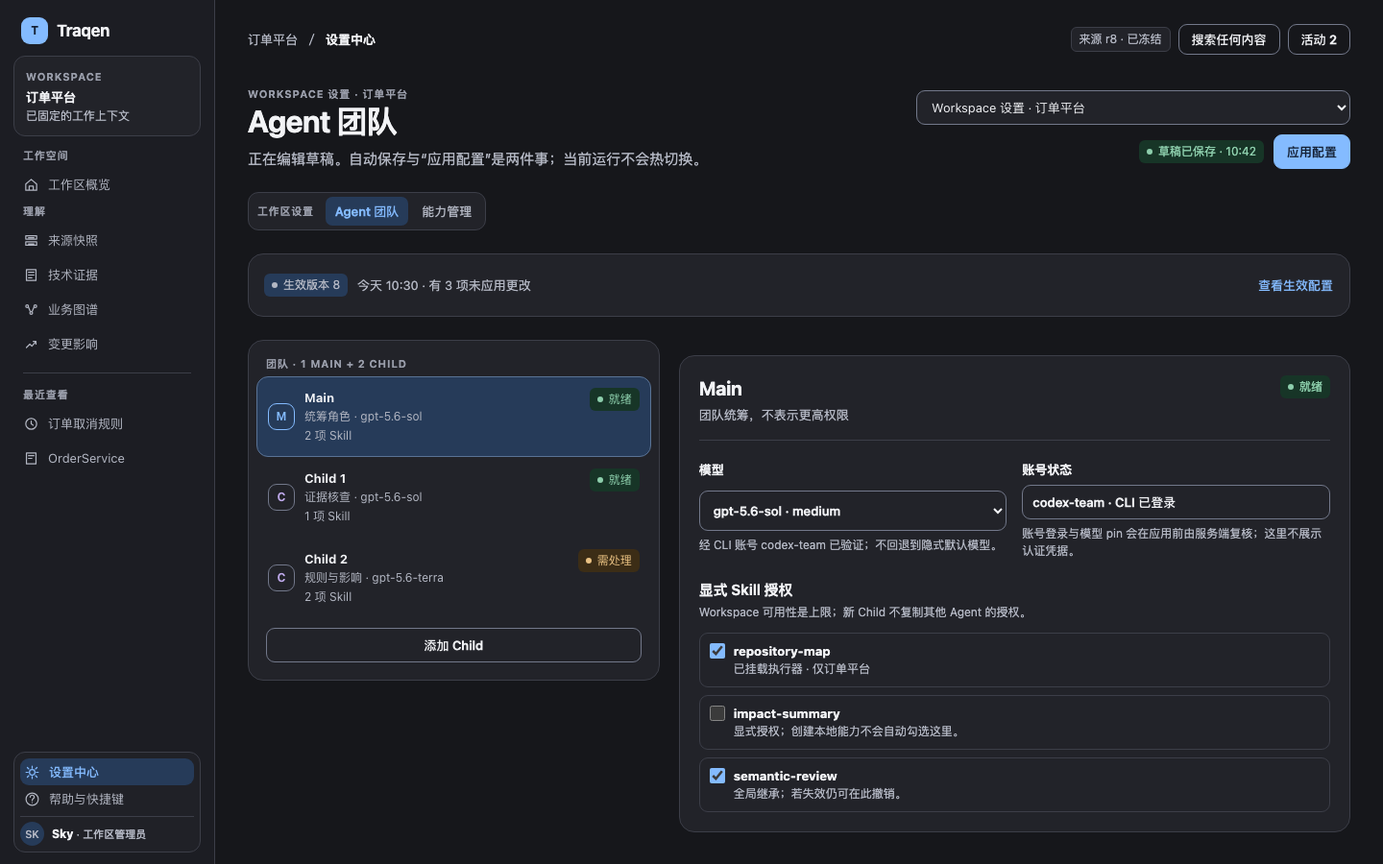
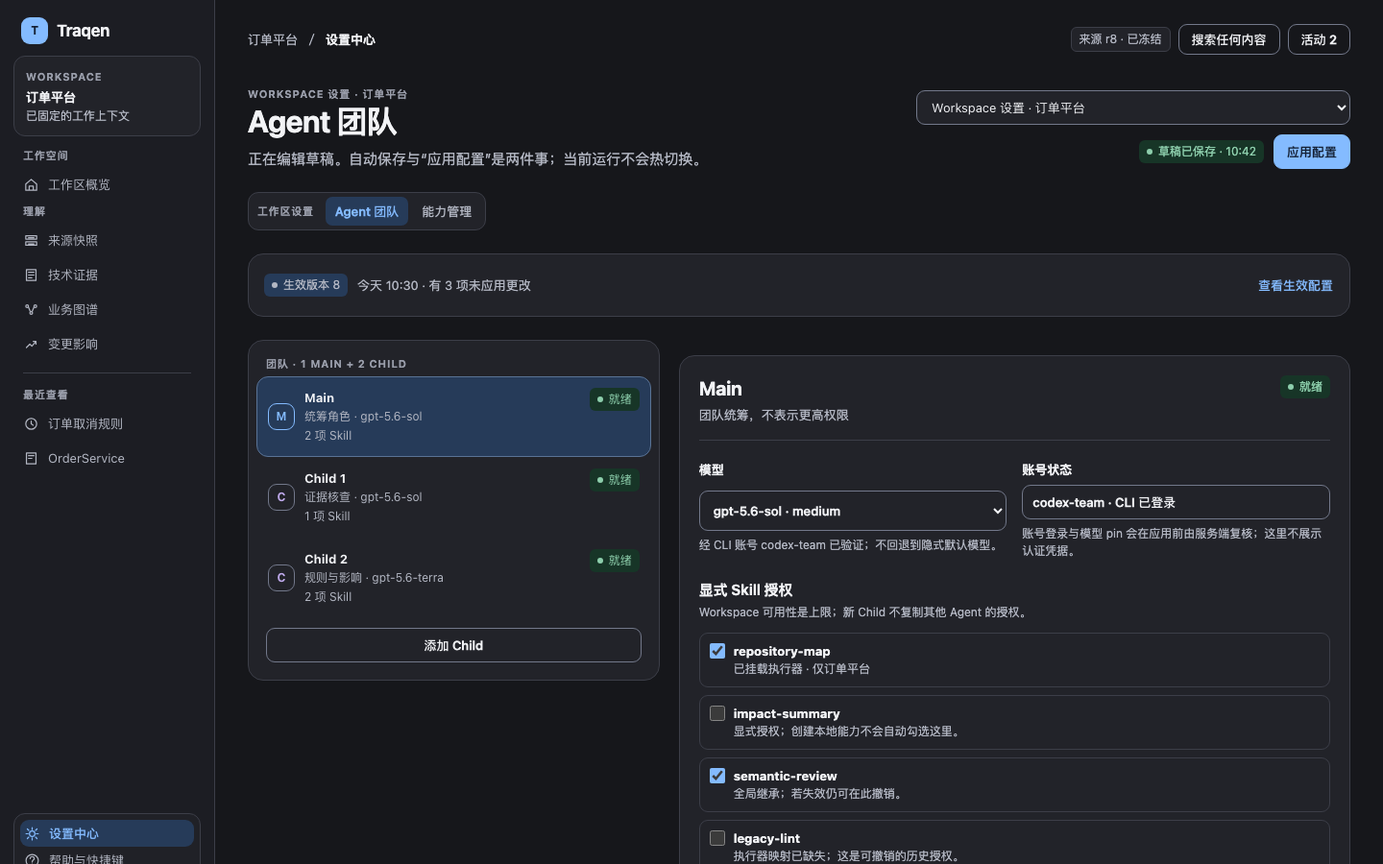
docs(f006): align desktop fixture flows with F005 shell
Why: make the pending review images prove real settings navigation, state boundaries, and recovery surfaces rather than fixture-only approximations.

[搬砖工/gpt-5.6-terra🐾]

Changed region(s): [[0.0, 0.8711, 0.1562, 1.0], [0.5, 0.9644, 0.6875, 1.0], [0.4062, 0.6222, 0.4688, 0.6844]]

diff --git a/docs/design/F006-workspace-capability-settings/ux-v1.0/assets/prototype.html b/docs/design/F006-workspace-capability-settings/ux-v1.0/assets/prototype.html
@@ -135,39 +135,42 @@
   <script>
     (() => {
       const scenes = {
-        empty: 'S01 · 范围与初始空态', accounts: 'S02 · 账号', models: 'S03 · 模型与 Skill', team: 'S04 · 完整团队', capabilities: 'S05 · 能力管理', conflict: 'S06 · 草稿冲突', lifecycle: 'S07 · 生命周期影响', mcp: 'S08 · MCP 暂停', versions: 'S09 · 生效版本', f003: 'S10 · F003 配置确认示意'
+        empty: 'S01 · 范围与初始空态', accounts: 'S02 · 账号', models: 'S03 · 模型', skills: 'S03 · Skill', team: 'S04 · 完整团队', capabilities: 'S05 · 能力管理', conflict: 'S06 · 草稿冲突', lifecycle: 'S07 · 生命周期影响', mcp: 'S08 · MCP 暂停', versions: 'S09 · 生效版本', f003: 'S10 · F003 配置确认示意'
       };
       const saved = JSON.parse(localStorage.getItem('traqen-f006-ux-state') || '{}');
-      const state = { scene: 'team', theme: localStorage.getItem('traqen-f006-ux-theme') || 'light', selected: saved.selected || 'main', child2Model: saved.child2Model || 'gpt-5.6-terra', conflict: Boolean(saved.conflict), m3: saved.m3 || '', logs: [], sentinels: { mainModel: 'gpt-5.6-sol', otherWorkspace: 'billing-workspace-unchanged' } };
+      const state = { scene: 'team', theme: localStorage.getItem('traqen-f006-ux-theme') || 'light', selected: saved.selected || 'main', child2Model: saved.child2Model || 'gpt-5.6-terra', conflict: Boolean(saved.conflict), legacyIssue: Boolean(saved.legacyIssue), m3: saved.m3 || '', logs: [], sentinels: { mainModel: 'gpt-5.6-sol', otherWorkspace: 'billing-workspace-unchanged' } };
       const agentConfigs = Object.freeze({
         main: { name: 'Main', role: '统筹角色', model: 'gpt-5.6-sol', skills: ['repository-map', 'semantic-review'], readiness: '就绪' },
         'child-1': { name: 'Child 1', role: '证据核查', model: 'gpt-5.6-sol', skills: ['repository-map'], readiness: '就绪' },
-        'child-2': { name: 'Child 2', role: '规则与影响', model: 'gpt-5.6-terra', skills: ['impact-summary', 'semantic-review'], readiness: '需处理' },
+        'child-2': { name: 'Child 2', role: '规则与影响', model: 'gpt-5.6-terra', skills: ['impact-summary', 'semantic-review'], readiness: '就绪' },
       });
       const $ = (selector, root=document) => root.querySelector(selector);
       const esc = value => String(value).replace(/[&<>"]/g, c => ({'&':'&amp;','<':'&lt;','>':'&gt;','"':'&quot;'}[c]));
-      function persist() { localStorage.setItem('traqen-f006-ux-state', JSON.stringify({ selected: state.selected, child2Model: state.child2Model, conflict: state.conflict, m3: state.m3 })); }
+      function persist() { localStorage.setItem('traqen-f006-ux-state', JSON.stringify({ selected: state.selected, child2Model: state.child2Model, conflict: state.conflict, legacyIssue: state.legacyIssue, m3: state.m3 })); }
       function log(type, detail, write=false) { state.logs.push({ type, detail, write }); updateLog(); }
       function updateLog() { const writes = state.logs.filter(x => x.write).length; $('#fixture-log').textContent = `模拟写入证据：${writes} 次业务写入 · ${state.logs.slice(-1)[0]?.detail || '取消/主题切换均为零业务写入'}`; }
       function applyTheme(theme) { state.theme = theme; localStorage.setItem('traqen-f006-ux-theme', theme); document.documentElement.dataset.theme = theme; document.querySelectorAll('[data-theme-choice]').forEach(button => button.setAttribute('aria-pressed', String(button.dataset.themeChoice === theme))); log('presentation', `切换至${theme === 'light' ? '瓷白' : '石墨'}主题`, false); }
       function head(kicker, title, description, action='') { return `<header class="page-head"><div><p class="eyebrow">${kicker}</p><h1>${title}</h1><p>${description}</p></div><div class="head-actions">${action}</div></header>`; }
       function pill(kind, text) { return `<span class="badge ${kind}">${text}</span>`; }
       function scope(value='workspace') { return `<select class="scope-select" data-testid="scope-switcher" aria-label="配置范围"><option ${value === 'global' ? 'selected':''}>全局设置</option><option ${value === 'workspace' ? 'selected':''}>Workspace 设置 · 订单平台</option></select>`; }
-      function agentConfig(id=state.selected) { const config = agentConfigs[id]; return { ...config, model: id === 'child-2' ? state.child2Model : config.model }; }
+      function agentConfig(id=state.selected) { const config = agentConfigs[id]; const legacy = id === 'child-1' && state.legacyIssue ? { skills: [...config.skills, 'legacy-lint'], readiness: '需处理' } : {}; return { ...config, ...legacy, model: id === 'child-2' ? state.child2Model : config.model }; }
+      function globalSettingsNav(active) { return `<nav class="settings-secondary" data-testid="global-settings-nav" aria-label="全局设置导航"><span>全局设置</span><button type="button" class="${active === 'accounts' ? 'active':''}" data-scene="accounts" ${active === 'accounts' ? 'aria-current="page"':''}>账号</button><button type="button" class="${active === 'models' ? 'active':''}" data-scene="models" ${active === 'models' ? 'aria-current="page"':''}>模型</button><button type="button" class="${active === 'skills' ? 'active':''}" data-scene="skills" ${active === 'skills' ? 'aria-current="page"':''}>Skill</button><button type="button" class="${active === 'mcp' ? 'active':''}" data-scene="mcp" ${active === 'mcp' ? 'aria-current="page"':''}>MCP · 已暂停</button></nav>`; }
       function workspaceSettingsNav(active) { return `<nav class="settings-secondary" data-testid="workspace-settings-nav" aria-label="Workspace 设置导航"><span>工作区设置</span><button type="button" class="${active === 'team' ? 'active':''}" data-scene="team" ${active === 'team' ? 'aria-current="page"':''}>Agent 团队</button><button type="button" class="${active === 'capabilities' ? 'active':''}" data-scene="capabilities" ${active === 'capabilities' ? 'aria-current="page"':''}>能力管理</button></nav>`; }
       function teamCards() { return `<section class="panel agent-list"><div class="agent-section-title">团队 · 1 Main + 2 Child</div>${Object.entries(agentConfigs).map(([id, base]) => { const agent = agentConfig(id); const kind = agent.readiness === '就绪' ? 'success' : 'warning'; return `<button class="agent-card ${state.selected === id ? 'selected':''}" data-agent="${id}" data-skill-count="${agent.skills.length}" ${id === 'child-2' ? 'data-testid="agent-child-2"':''}><span class="agent-icon">${id === 'main'?'M':'C'}</span><span><b>${agent.name}</b><small>${agent.role} · ${agent.model}</small><small>${agent.skills.length} 项 Skill</small></span>${pill(kind, agent.readiness)}</button>`; }).join('')}<button class="btn" style="margin:10px;width:calc(100% - 20px)">添加 Child</button></section>`; }
-      function inspector() { const agent = agentConfig(); const isChild2 = state.selected === 'child-2'; const skillDescription = { 'repository-map': ['已挂载执行器 · 仅订单平台', 'Workspace 可用性是上限，不会自动配给其他 Agent。'], 'impact-summary': ['显式授权；创建本地能力不会自动勾选这里。', '本地能力可用不等于任何 Agent 已获授权。'], 'semantic-review': ['全局继承；若失效仍可在此撤销。', '生命周期变更会在这里标记为需要处理。'] }; return `<section class="panel detail" aria-label="${agent.name} 配置详情"><div class="detail-head"><div><h2>${agent.name}</h2><p>${isChild2 ? '规则与影响的并行分析角色' : state.selected === 'main' ? '团队统筹，不表示更高权限' : '证据核查的并行分析角色'}</p></div>${pill(agent.readiness === '就绪' ? 'success':'warning', agent.readiness)}</div><div class="fields"><label>模型 <select id="agent-model" data-testid="agent-model"><option ${agent.model === 'gpt-5.6-sol'?'selected':''}>gpt-5.6-sol · medium</option><option ${agent.model === 'gpt-5.6-terra'?'selected':''}>gpt-5.6-terra · high</option></select><span>经 CLI 账号 codex-team 已验证；不回退到隐式默认模型。</span></label><label>账号状态 <input value="codex-team · CLI 已登录" readonly><span>账号登录与模型 pin 会在应用前由服务端复核；这里不展示认证凭据。</span></label></div><div class="grant-block"><h3>显式 Skill 授权</h3><p>Workspace 可用性是上限；新 Child 不复制其他 Agent 的授权。</p><div class="grant-list">${['repository-map','impact-summary','semantic-review'].map(skill => `<label class="check-row"><input type="checkbox" ${agent.skills.includes(skill) ? 'checked':''}><span><b>${skill}</b><br>${skillDescription[skill][0]}</span></label>`).join('')}</div></div><div class="wide-only"><h3>草稿与生效对照</h3><div class="wide-only-grid"><div><b>版本 8</b><span>当前 Active</span></div><div><b>3 项更改</b><span>草稿已保存</span></div><div><b>RUN-049</b><span>仍固定版本 7</span></div></div></div></section>`; }
+      function inspector() { const agent = agentConfig(); const isChild2 = state.selected === 'child-2'; const hasLegacyIssue = state.selected === 'child-1' && state.legacyIssue; const skillDescription = { 'repository-map': ['已挂载执行器 · 仅订单平台', 'Workspace 可用性是上限，不会自动配给其他 Agent。'], 'impact-summary': ['显式授权；创建本地能力不会自动勾选这里。', '本地能力可用不等于任何 Agent 已获授权。'], 'semantic-review': ['全局继承；若失效仍可在此撤销。', '生命周期变更会在这里标记为需要处理。'], 'legacy-lint': ['执行器映射已缺失；这是可撤销的历史授权。', '撤销只会修改 Child 1 的草稿授权。'] }; return `<section class="panel detail" aria-label="${agent.name} 配置详情"><div class="detail-head"><div><h2>${agent.name}</h2><p>${isChild2 ? '规则与影响的并行分析角色' : state.selected === 'main' ? '团队统筹，不表示更高权限' : '证据核查的并行分析角色'}</p></div>${pill(agent.readiness === '就绪' ? 'success':'warning', agent.readiness)}</div>${hasLegacyIssue ? `<div class="notice danger" data-testid="legacy-authorization" style="margin-top:16px"><span class="dot"></span><div><strong>legacy-lint 授权需要处理</strong><br>该执行器映射已不可用；历史授权仍在 Child 1 草稿中，必须在此明确撤销或替换。</div><button class="btn danger" id="revoke-legacy" style="margin-left:auto">撤销授权</button></div>` : ''}<div class="fields"><label>模型 <select id="agent-model" data-testid="agent-model"><option ${agent.model === 'gpt-5.6-sol'?'selected':''}>gpt-5.6-sol · medium</option><option ${agent.model === 'gpt-5.6-terra'?'selected':''}>gpt-5.6-terra · high</option></select><span>经 CLI 账号 codex-team 已验证；不回退到隐式默认模型。</span></label><label>账号状态 <input value="codex-team · CLI 已登录" readonly><span>账号登录与模型 pin 会在应用前由服务端复核；这里不展示认证凭据。</span></label></div><div class="grant-block"><h3>显式 Skill 授权</h3><p>Workspace 可用性是上限；新 Child 不复制其他 Agent 的授权。</p><div class="grant-list">${['repository-map','impact-summary','semantic-review','legacy-lint'].map(skill => `<label class="check-row"><input type="checkbox" ${agent.skills.includes(skill) ? 'checked':''}><span><b>${skill}</b><br>${skillDescription[skill][0]}</span></label>`).join('')}</div></div><div class="wide-only"><h3>草稿与生效对照</h3><div class="wide-only-grid"><div><b>版本 8</b><span>当前 Active</span></div><div><b>3 项更改</b><span>草稿已保存</span></div><div><b>RUN-049</b><span>仍固定版本 7</span></div></div></div></section>`; }
       function team() { return `${head('Workspace 设置 · 订单平台', 'Agent 团队', '正在编辑草稿。自动保存与“应用配置”是两件事；当前运行不会热切换。', `${scope()}${pill('success','草稿已保存 · 10:42').replace('class="badge success"', 'class="badge success" data-testid="draft-saved"')}<button class="btn primary" id="apply" data-testid="apply-config">应用配置</button>`)}${workspaceSettingsNav('team')}<div class="summary-row"><div class="summary-copy">${pill('blue','生效版本 8')}<span>今天 10:30 · 有 3 项未应用更改</span></div><button class="btn link">查看生效配置</button></div><section class="content team-grid">${teamCards()}${inspector()}</section>`; }
-      function empty() { return `${head('设置中心', '先准备可信的配置资产', '全局资产、Workspace 可用范围和 Agent 授权分别决定不同的事情。', scope())}<section class="content panel pad"><div class="section-head"><div><h2>订单平台尚未配置团队</h2><p class="subtle">最低结构是一个 Main 与一个 Child；不会静默填入默认模型。</p></div>${pill('warning','需要准备模型')}</div><div class="quad"><div class="panel pad"><h3>1 · 添加账号</h3><p class="subtle" style="margin-top:5px">保存安全引用或检查 CLI 登录状态。</p><button class="btn link" style="margin-top:14px">前往账号</button></div><div class="panel pad"><h3>2 · 创建 CLI 模型</h3><p class="subtle" style="margin-top:5px">模型验证成功也不自动配给 Agent。</p><button class="btn link" style="margin-top:14px">前往模型</button></div><div class="panel pad"><h3>3 · 配置 Main</h3><p class="subtle" style="margin-top:5px">显示实际模型与账号状态。</p><button class="btn link" style="margin-top:14px">选择模型</button></div><div class="panel pad"><h3>4 · 配置 Child</h3><p class="subtle" style="margin-top:5px">至少一个 Child，授权不从 Main 复制。</p><button class="btn link" style="margin-top:14px">添加 Child</button></div></div><div class="notice" style="margin-top:16px"><span class="dot"></span><div><strong>不能应用配置</strong><br>先完成 Main 与 Child 的模型配置。草稿仍可保存，运行不会因此创建。</div></div></section>`; }
-      function accounts() { return `${head('全局设置', '账号', '保存的是认证引用与 CLI 状态摘要；不显示密钥，也不在 Traqen 内发起 OAuth 登录。', scope('global'))}<section class="content form-grid"><div class="panel pad"><div class="section-head"><h2>添加 API Key 引用</h2>${pill('blue','全局资产')}</div><div class="form-stack"><label>账号名称 <input value="OpenAI 团队账号"></label><label>Secret 引用 <input value="env://OPENAI_API_KEY" aria-invalid="true"><span class="error-text">未发现该环境变量；引用已保留，未显示密钥值。</span></label><p class="field-help">仅支持 <code>env://VARIABLE_NAME</code>；保存引用与连接检查分开。</p><button class="btn primary">保存引用</button></div></div><div class="panel pad"><div class="section-head"><h2>OAuth 状态</h2>${pill('warning','需要处理')}</div><div class="timeline"><div class="event"><i></i><div><b>Claude CLI</b><p>等待 CLI 登录。请在受支持的 CLI 完成登录后回到这里检查。</p></div></div><div class="event"><i></i><div><b>Codex CLI</b><p>检查失败 · 找不到本地 CLI。重试不会改变认证状态。</p></div></div></div><button class="btn" style="margin-top:16px">重新检查</button></div></section>`; }
-      function models() { return `${head('全局设置', 'CLI 模型与 Skill', '只允许受支持的 CLI 执行；账号、模型 pin 和就绪性不足时不能进入 Agent 选择器。', scope('global'))}<section class="content form-grid"><div class="panel pad"><div class="section-head"><h2>模型目录</h2><button class="btn">添加模型</button></div><table class="table"><thead><tr><th>名称</th><th>CLI / 模型</th><th>状态</th></tr></thead><tbody><tr><td><b>订单分析</b><small>codex-team</small></td><td>Codex · gpt-5.6-sol<br><small>medium</small></td><td>${pill('success','READY')}</td></tr><tr><td><b>规则核查</b><small>claude-team</small></td><td>Claude · 未固定模型<br><small>模型 pin 缺失</small></td><td>${pill('warning','需要处理')}</td></tr></tbody></table><div class="notice danger" style="margin-top:15px"><span class="dot"></span><div><strong>验证失败</strong><br>“规则核查”保留在目录中，不会悄悄清空或替换当前选择。</div></div></div><div class="panel pad"><div class="section-head"><h2>Skill 执行器</h2>${pill('purple','服务端映射')}</div><p class="subtle">新增 Skill 只能选择实际挂载的执行器；手填“已验证”不会产生授权。</p><div class="grant-list"><label>能力名称 <input value="semantic-review"></label><label>已挂载执行器 <select><option>semantic-reviewer · v3.2</option></select><span>映射与验证结果由服务端生成。</span></label><label class="check-row"><input type="checkbox"><span><b>我已核对执行器</b><br>只是创建前确认；不替代服务器验证。</span></label></div><button class="btn primary" style="margin-top:16px">添加 Skill</button></div></section>`; }
-      function capabilities() { const card = (title,count,body) => `<section class="panel group-card"><h3>${title}<span>${count}</span></h3>${body}</section>`; return `${head('Workspace 设置 · 订单平台', '能力管理', '四组可用范围与每个 Agent 的显式授权分开管理。', `${scope()}<button class="btn primary">应用配置</button>`)}${workspaceSettingsNav('capabilities')}<section class="content"><div class="quad">${card('继承且可用','2',`<div class="cap-row"><b>repository-map</b><p>全局启用 · Workspace 未禁用</p><button class="btn link inline">在此 Workspace 禁用</button></div><div class="cap-row"><b>semantic-review</b><p>全局启用 · 已授权给 Child 2</p></div>`)}${card('本 Workspace 已禁用','1',`<div class="cap-row"><b>release-notes</b><p>恢复只改变可用范围，不自动恢复 Agent 授权。</p><button class="btn link inline">恢复继承</button></div>`)}${card('全局不可用','1',`<div class="cap-row"><b>legacy-lint</b><p>执行器映射缺失 · 当前 Child 1 仍保留可撤销的历史授权。</p><button class="btn link inline">前往 Child 1 撤销授权</button></div>`)}${card('Workspace 本地','1',`<div class="cap-row"><b>order-language</b><p>仅订单平台 · 已挂载执行器</p><button class="btn link inline">编辑本地 Skill</button></div><button class="btn" style="margin-top:14px">添加本地 Skill</button>`)}</div></section>`; }
-      function conflict() { const events = state.logs.filter(x => x.type === 'draft-save' || x.type === 'activation').map(x => `<div class="event"><i></i><div><b>${x.type === 'activation' ? 'Apply 请求' : '草稿写入'} · ${esc(x.detail)}</b><p>${x.write ? '模拟业务写入' : '展示事件'}</p></div></div>`).join(''); return `${head('Workspace 设置 · 订单平台', '草稿冲突恢复', '409 发生后，保留本地编辑，冻结失败快照；不会后台循环写入。', `${scope()}<button class="btn primary" disabled data-testid="conflict-apply">应用配置</button>`)}<section class="content form-grid"><div><div class="panel pad"><div class="notice danger"><span class="dot"></span><div><strong>草稿已在其他位置更新</strong><br>M2 保存收到 409。M3 继续编辑会被保留，但不会在冲突期间再发起 PUT。</div></div><div class="form-stack" style="margin-top:16px"><label>M2：失败时冻结的模型 <select id="m2-model"><option>gpt-5.6-terra · high</option></select></label><label>M3：更晚的说明 <input id="m3-note" value="${esc(state.m3)}" placeholder="继续编辑 M3，不会立即写入"></label><div><button class="btn primary" id="conflict-retry" data-testid="conflict-retry">重试我的草稿</button><button class="btn" id="conflict-server" style="margin-left:8px">采用服务器草稿</button></div></div></div><div class="panel pad"><h2>恢复顺序</h2><div class="timeline"><div class="event"><i></i><div><b>1 · 冻结 M2</b><p>只确认实际要重新保存的 M2，不把尚未发送的 M3 标作已保存。</p></div></div><div class="event"><i></i><div><b>2 · 确认 M2</b><p>恢复成功后，M3 仍为待保存编辑。</p></div></div><div class="event"><i></i><div><b>3 · 恰好补存一次 M3</b><p>写入日志可核对，无循环重试。</p></div></div></div></div></div><div class="panel pad" style="margin-top:16px"><div class="section-head"><h2>模拟事件日志</h2>${pill('warning','冲突中')}</div><div class="timeline" id="event-log">${events || '<p class="subtle">点击“重试我的草稿”演示 M2 → M3 的有界恢复。</p>'}</div></div></section>`; }
+      function empty() { const placeholder = (id, name, role, detail) => `<button class="agent-card ${id === 'main' ? 'selected':''}" data-testid="empty-${id}"><span class="agent-icon">${id === 'main'?'M':'C'}</span><span><b>${name}</b><small>${role}</small><small>尚未选择模型 · 0 项 Skill</small></span>${pill('warning','需要配置')}</button>`; return `${head('Workspace 设置 · 订单平台', 'Agent 团队', '先在实际团队配置中为 Main 与至少一个 Child 选择模型；不会静默填入默认值。', `${scope()}${pill('warning','不能应用配置')}`)}${workspaceSettingsNav('team')}<div class="summary-row"><div class="summary-copy">${pill('blue','草稿已保存')}<span>初始草稿 · 尚未创建可运行版本</span></div><button class="btn link" data-scene="models">前往模型</button></div><section class="content team-grid"><section class="panel agent-list"><div class="agent-section-title">团队 · 1 Main + 1 Child（最小结构）</div>${placeholder('main','Main','统筹角色','')} ${placeholder('child-1','Child 1','证据核查','')}<button class="btn" style="margin:10px;width:calc(100% - 20px)">添加 Child</button></section><section class="panel detail" aria-label="初始 Agent 配置"><div class="detail-head"><div><h2>Main 尚未完成配置</h2><p>从实际账号与模型中选择；Child 的授权不会由 Main 自动复制。</p></div>${pill('warning','需要模型')}</div><div class="fields"><label>模型 <select disabled><option>先在模型页添加并验证</option></select><span>未选择模型，不会回退到隐式默认值。</span></label><label>账号状态 <input value="尚未选择账号" readonly><span>保存引用与 CLI 检查分开。</span></label></div><div class="grant-block"><h3>显式 Skill 授权</h3><p>等待模型配置完成后再逐项选择；当前为 0 项。</p></div><div class="notice" style="margin-top:20px"><span class="dot"></span><div><strong>应用配置仍不可用</strong><br>先完成 Main 和至少一个 Child 的模型配置。草稿可以保存，但不会创建运行。</div></div></section></section>`; }
+      function accounts() { return `${head('全局设置', '账号', '保存的是认证引用与 CLI 状态摘要；不显示密钥，也不在 Traqen 内发起 OAuth 登录。', scope('global'))}${globalSettingsNav('accounts')}<section class="content form-grid"><div class="panel pad"><div class="section-head"><h2>添加 API Key 引用</h2>${pill('blue','全局资产')}</div><div class="form-stack"><label>账号名称 <input value="OpenAI 团队账号"></label><label>Secret 引用 <input value="env://OPENAI_API_KEY" aria-invalid="true"><span class="error-text">未发现该环境变量；引用已保留，未显示密钥值。</span></label><p class="field-help">仅支持 <code>env://VARIABLE_NAME</code>；保存引用与连接检查分开。</p><button class="btn primary">保存引用</button></div></div><div class="panel pad"><div class="section-head"><h2>OAuth 状态</h2>${pill('warning','需要处理')}</div><div class="timeline"><div class="event"><i></i><div><b>Claude CLI</b><p>等待 CLI 登录。请在受支持的 CLI 完成登录后回到这里检查。</p></div></div><div class="event"><i></i><div><b>Codex CLI</b><p>检查失败 · 找不到本地 CLI。重试不会改变认证状态。</p></div></div></div><button class="btn" style="margin-top:16px">重新检查</button></div></section>`; }
+      function models() { return `${head('全局设置', 'CLI 模型', '只允许受支持的 CLI 执行；账号、模型 pin 和就绪性不足时不能进入 Agent 选择器。', scope('global'))}${globalSettingsNav('models')}<section class="content panel pad"><div class="section-head"><h2>模型目录</h2><button class="btn">添加模型</button></div><table class="table"><thead><tr><th>名称</th><th>CLI / 模型</th><th>状态</th></tr></thead><tbody><tr><td><b>订单分析</b><small>codex-team</small></td><td>Codex · gpt-5.6-sol<br><small>medium</small></td><td>${pill('success','READY')}</td></tr><tr><td><b>规则核查</b><small>claude-team</small></td><td>Claude · 未固定模型<br><small>模型 pin 缺失</small></td><td>${pill('warning','需要处理')}</td></tr></tbody></table><div class="notice danger" style="margin-top:15px"><span class="dot"></span><div><strong>验证失败</strong><br>“规则核查”保留在目录中，不会悄悄清空或替换当前选择。</div></div></section>`; }
+      function skills() { return `${head('全局设置', 'Skill', 'Skill 是独立的全局资产；新增时只能选择实际挂载的执行器，不能直接形成 Agent 授权。', scope('global'))}${globalSettingsNav('skills')}<section class="content form-grid"><section class="panel pad"><div class="section-head"><h2>Skill 执行器</h2>${pill('purple','服务端映射')}</div><p class="subtle">能力名称、执行器映射和验证状态都在此管理；团队页只选择已可用的 Skill。</p><div class="grant-list"><label>能力名称 <input value="semantic-review"></label><label>已挂载执行器 <select><option>semantic-reviewer · v3.2</option></select><span>映射与验证结果由服务端生成。</span></label><label class="check-row"><input type="checkbox"><span><b>我已核对执行器</b><br>只是创建前确认；不替代服务器验证。</span></label></div><button class="btn primary" style="margin-top:16px">添加 Skill</button></section><section class="panel pad"><div class="section-head"><h2>已挂载 Skill</h2>${pill('success','2 可用')}</div><div class="timeline"><div class="event"><i></i><div><b>repository-map</b><p>映射有效 · 可在 Workspace 范围内授权。</p></div></div><div class="event"><i></i><div><b>semantic-review</b><p>semantic-reviewer v3.2 · 由团队显式授权。</p></div></div></div></section></section>`; }
+      function capabilities() { const card = (title,count,body) => `<section class="panel group-card"><h3>${title}<span>${count}</span></h3>${body}</section>`; return `${head('Workspace 设置 · 订单平台', '能力管理', '四组可用范围与每个 Agent 的显式授权分开管理。', `${scope()}<button class="btn primary">应用配置</button>`)}${workspaceSettingsNav('capabilities')}<section class="content"><div class="quad">${card('继承且可用','2',`<div class="cap-row"><b>repository-map</b><p>全局启用 · Workspace 未禁用</p><button class="btn link inline">在此 Workspace 禁用</button></div><div class="cap-row"><b>semantic-review</b><p>全局启用 · 已授权给 Child 2</p></div>`)}${card('本 Workspace 已禁用','1',`<div class="cap-row"><b>release-notes</b><p>恢复只改变可用范围，不自动恢复 Agent 授权。</p><button class="btn link inline">恢复继承</button></div>`)}${card('全局不可用','1',`<div class="cap-row"><b>legacy-lint</b><p>执行器映射缺失 · Child 1 的历史授权需要在团队详情中明确处理。</p><button class="btn link inline" data-action="open-legacy-issue">前往 Child 1 处理授权</button></div>`)}${card('Workspace 本地','1',`<div class="cap-row"><b>order-language</b><p>仅订单平台 · 已挂载执行器</p><button class="btn link inline">编辑本地 Skill</button></div><button class="btn" style="margin-top:14px">添加本地 Skill</button>`)}</div></section>`; }
+      function conflictInspector() { return `<section class="panel detail" aria-label="Child 2 草稿恢复"><div class="detail-head"><div><h2>Child 2</h2><p>规则与影响的并行分析角色</p></div>${pill('warning','草稿需要处理')}</div><div class="notice danger" style="margin-top:16px"><span class="dot"></span><div><strong>此草稿基于较早的保存状态</strong><br>已保留你的模型选择和说明。恢复前不会自动覆盖服务器上的更新，也不会把当前草稿应用到运行。</div></div><div class="fields"><label>模型 <select id="m2-model"><option>gpt-5.6-terra · high</option></select><span>保留你的未应用选择，等待恢复完成。</span></label><label>保留的说明 <input id="m3-note" value="${esc(state.m3)}" placeholder="继续编辑说明，不会立即保存"><span>这里的编辑仍留在本地，直到你确认恢复。</span></label></div><div class="grant-block"><h3>恢复草稿</h3><p>先确认冲突前的保存版本，再补存你随后增加的说明；系统不会循环重试。</p><div style="margin-top:12px"><button class="btn primary" id="conflict-retry" data-testid="conflict-retry">重新保存草稿</button><button class="btn" id="conflict-server" style="margin-left:8px">查看服务器草稿</button></div></div></section>`; }
+      function conflict() { return `${head('Workspace 设置 · 订单平台', 'Agent 团队', '一个已保存草稿需要恢复。保留你的更改并选择恢复方式；当前运行和生效配置不会热切换。', `${scope()}${pill('warning','草稿需要处理')}<button class="btn primary" disabled data-testid="conflict-apply">应用配置</button>`)}${workspaceSettingsNav('team')}<div class="summary-row"><div class="summary-copy">${pill('blue','生效版本 8')}<span>草稿待恢复后才能应用；当前 Active 与运行不变</span></div><button class="btn link" data-scene="versions">查看生效配置</button></div><section class="content team-grid">${teamCards()}${conflictInspector()}</section>`; }
       function lifecycle() { return `${head('全局设置', '能力生命周期', '停用或删除前先取得当前影响；取消不会写入，完成后历史版本不被篡改。', scope('global'))}<section class="content panel pad"><div class="section-head"><div><h2>semantic-review</h2><p class="subtle">Skill · 已挂载执行器 semantic-reviewer v3.2</p></div>${pill('success','ACTIVE')}</div><div class="versions"><div><div class="notice"><span class="dot"></span><div><strong>将影响 2 个 Workspace / 3 项授权</strong><br>服务端影响清单成功加载后才允许继续；名称确认是对当前对象的确认，不是通用确认。</div></div><table class="table" style="margin-top:16px"><thead><tr><th>Workspace</th><th>Agent</th><th>现状</th></tr></thead><tbody><tr><td>订单平台</td><td>Child 2</td><td>授权有效</td></tr><tr><td>客户运营</td><td>Main / Child 1</td><td>授权有效</td></tr></tbody></table></div><div class="panel pad"><h3>生命周期操作</h3><p class="subtle" style="margin-top:5px">停用后，受影响团队显示“需要处理”，仍可撤销失效授权。</p><button class="btn danger" id="open-lifecycle" style="margin-top:17px">停用能力</button><p class="field-help" style="margin-top:16px">焦点会在取消后回到这一行的原操作。</p></div></div></section>`; }
-      function mcp() { return `${head('全局设置', 'MCP', 'MCP 接入暂不推进。历史配置仅供查看，不代表当前可执行能力。', scope('global'))}<section class="content split"><nav class="panel local-nav" aria-label="全局设置导航"><button>账号</button><button>模型</button><button>Skill</button><button class="active">MCP · 已暂停</button></nav><div><section class="panel pad" data-testid="mcp-paused"><div class="section-head"><div><h2>MCP 已暂停</h2><p class="subtle">本期没有创建、导入、检测、连接、激活或新增授权入口。</p></div>${pill('warning','已暂停')}</div><div class="notice"><span class="dot"></span><div><strong>不显示 READY 或“已连接”</strong><br>受限与不支持不是加载中；不能让历史记录暗示当前可以执行。</div></div><table class="table" style="margin-top:18px"><thead><tr><th>历史引用</th><th>范围</th><th>状态</th><th></th></tr></thead><tbody><tr><td><b>search</b><small>MCP 历史身份保留</small></td><td>订单平台 · Child 1</td><td>${pill('warning','只读 / 暂停')}</td><td class="row-actions"><button class="btn">到团队移除授权</button></td></tr></tbody></table></section></div></section>`; }
-      function versions() { return `${head('Workspace 设置 · 订单平台', '当前生效配置', '草稿已保存不等于已应用；每次运行固定读取创建时的版本。', `${scope()}<button class="btn primary">应用配置</button>`)}<section class="content versions"><section class="panel pad"><div class="section-head"><div><span class="eyebrow">当前生效</span><div class="version-number">版本 8</div><p class="subtle">今天 10:30 · cfg_01HX…9M</p></div>${pill('success','已生效')}</div><div class="key-value"><span>Main</span><b>gpt-5.6-sol · 2 项 Skill</b></div><div class="key-value"><span>Child 1</span><b>gpt-5.6-sol · 1 项 Skill</b></div><div class="key-value"><span>Child 2</span><b>gpt-5.6-terra · 2 项 Skill</b></div><div class="notice" style="margin-top:16px"><span class="dot"></span><div><strong>仅影响之后的新分析</strong><br>运行 RUN-049 继续固定使用版本 7；刷新和恢复不会换成当前 Active。</div></div></section><aside class="panel pad"><h2>草稿</h2><p class="subtle" style="margin-top:5px">已保存 · 3 项待应用更改</p><div class="timeline"><div class="event"><i></i><div><b>Child 2 模型</b><p>gpt-5.6-sol → gpt-5.6-terra</p></div></div><div class="event"><i></i><div><b>Skill 授权</b><p>新增 impact-summary</p></div></div></div><button class="btn primary" style="margin-top:16px">应用配置</button></aside></section>`; }
+      function mcp() { return `${head('全局设置', 'MCP', 'MCP 接入暂不推进。历史配置仅供查看，不代表当前可执行能力。', scope('global'))}${globalSettingsNav('mcp')}<section class="content panel pad" data-testid="mcp-paused"><div class="section-head"><div><h2>MCP 已暂停</h2><p class="subtle">本期没有创建、导入、检测、连接、激活或新增授权入口。</p></div>${pill('warning','已暂停')}</div><div class="notice"><span class="dot"></span><div><strong>不显示 READY 或“已连接”</strong><br>受限与不支持不是加载中；不能让历史记录暗示当前可以执行。</div></div><table class="table" style="margin-top:18px"><thead><tr><th>历史引用</th><th>范围</th><th>状态</th><th></th></tr></thead><tbody><tr><td><b>search</b><small>MCP 历史身份保留</small></td><td>订单平台 · Child 1</td><td>${pill('warning','只读 / 暂停')}</td><td class="row-actions"><button class="btn" data-scene="team">到团队移除授权</button></td></tr></tbody></table></section>`; }
+      function versions() { return `${head('Workspace 设置 · 订单平台', '当前生效配置', '草稿已保存不等于已应用；每次运行固定读取创建时的版本。', `${scope()}<button class="btn link" data-scene="team">返回团队编辑</button>`)}${workspaceSettingsNav('team')}<section class="content versions"><section class="panel pad"><div class="section-head"><div><span class="eyebrow">当前生效</span><div class="version-number">版本 8</div><p class="subtle">今天 10:30 · cfg_01HX…9M</p></div>${pill('success','已生效')}</div><div class="key-value"><span>Main</span><b>gpt-5.6-sol · 2 项 Skill</b></div><div class="key-value"><span>Child 1</span><b>gpt-5.6-sol · 1 项 Skill</b></div><div class="key-value"><span>Child 2</span><b>gpt-5.6-sol · 1 项 Skill</b></div><div class="notice" style="margin-top:16px"><span class="dot"></span><div><strong>仅影响之后的新分析</strong><br>运行 RUN-049 继续固定使用版本 7；刷新和恢复不会换成当前 Active。</div></div></section><aside class="panel pad"><h2>草稿</h2><p class="subtle" style="margin-top:5px">已保存 · 3 项待应用更改</p><div class="timeline"><div class="event"><i></i><div><b>Child 2 模型</b><p>gpt-5.6-sol → gpt-5.6-terra</p></div></div><div class="event"><i></i><div><b>Skill 授权</b><p>新增 impact-summary；草稿合计 2 项 Skill</p></div></div></div><p class="field-help" style="margin-top:16px">这是只读版本对照。若要应用草稿，请返回团队编辑页。</p><button class="btn primary" data-scene="team" style="margin-top:12px">返回团队编辑</button></aside></section>`; }
       function f003() { return `${head('F003 · 分析准备', '确认将使用的 F006 生效配置', '这是跨 Feature 交互示意：真实材料绑定、启动 API 与持久确认机制尚未接线。', '<button class="btn primary" id="f003-confirm">确认配置并继续</button>')}<section class="content f003-grid"><section class="panel pad"><div class="section-head"><div><h2>订单取消规则的调查准备</h2><p class="subtle">首次使用或配置版本变化时，要求人工确认。</p></div>${pill('blue','版本 8')}</div><div class="checklist"><div><i>✓</i><span><b>Main · gpt-5.6-sol</b><br><span class="subtle">已固定给本次准备摘要；不是实时目录。</span></span></div><div><i>✓</i><span><b>Child 1 / Child 2</b><br><span class="subtle">模型与能力数量可见，敏感认证内容不展开。</span></span></div><div><i>✓</i><span><b>账号就绪性</b><br><span class="subtle">服务端应在真实启动前再次校验，原型不声称检查通过。</span></span></div></div></section><aside class="panel pad" data-testid="f003-fixture-only"><span class="badge warning">明确限制</span><h2 style="margin-top:12px">不是 AC-C2 完成声明</h2><p class="subtle" style="margin-top:7px">这个示意不会读取新材料、不会复活 F001 的旧入口、不会创建 Run，也不能证明 F003 接线已完成。</p><button class="btn" id="simulate-head-conflict" style="margin-top:16px">示意：配置 Head 已变化</button></aside></section>`; }
-      function content() { return ({empty, accounts, models, team, capabilities, conflict, lifecycle, mcp, versions, f003}[state.scene] || team)(); }
+      function content() { return ({empty, accounts, models, skills, team, capabilities, conflict, lifecycle, mcp, versions, f003}[state.scene] || team)(); }
       function bind() {
         document.querySelectorAll('[data-agent]').forEach(button => button.addEventListener('click', () => { state.selected = button.dataset.agent; persist(); render(); }));
         document.querySelectorAll('[data-scene]').forEach(button => button.addEventListener('click', () => navigate(button.dataset.scene)));
@@ -175,6 +178,8 @@
         $('#m3-note')?.addEventListener('input', event => { state.m3 = event.target.value; persist(); log('local-edit', 'M3 在 409 横幅期间保留为本地编辑，零额外写入', false); });
         $('#conflict-retry')?.addEventListener('click', () => { log('draft-save', 'M2 冻结快照 → 200 已确认', true); log('draft-save', 'M3 更晚编辑 → 200 恰好补存一次', true); state.conflict = false; persist(); render(); });
         $('#conflict-server')?.addEventListener('click', () => { log('recovery', '采用服务器草稿；取消本地未持久编辑，不产生业务写入', false); state.m3 = ''; persist(); render(); });
+        $('[data-action=open-legacy-issue]')?.addEventListener('click', () => { state.legacyIssue = true; state.selected = 'child-1'; persist(); navigate('team'); });
+        $('#revoke-legacy')?.addEventListener('click', () => { state.legacyIssue = false; log('draft-save', 'Child 1 撤销 legacy-lint 历史授权（仅演示）', true); persist(); render(); });
         $('#open-lifecycle')?.addEventListener('click', event => { state.lifecycleInvoker = event.currentTarget; $('#lifecycle-dialog').showModal(); $('#confirm-name').focus(); });
         $('#f003-confirm')?.addEventListener('click', () => $('#f003-dialog').showModal());
         $('#simulate-head-conflict')?.addEventListener('click', () => { log('f003-fixture', '只切换示意状态；没有创建 Run', false); alert('配置 Head 已变化：保留调查输入，刷新摘要后重新确认。'); });

diff --git a/docs/design/F006-workspace-capability-settings/ux-v1.0/README.md b/docs/design/F006-workspace-capability-settings/ux-v1.0/README.md
@@ -46,33 +46,37 @@ source_design: ../README.md
 
 | 场景 | 画面 / 交互证据 | 主题与视口 |
 | --- | --- | --- |
-| S01 范围与初始空态 | [范围、Main + Child 引导](assets/previews/01-empty-light.png) | 瓷白 · 1440×900 |
+| S01 范围与初始空态 | [真实团队配置面内的 Main + Child 1 空占位](assets/previews/01-empty-light.png) | 瓷白 · 1440×900 |
 | S02 账号 | [瓷白：API 引用错误保留、OAuth 状态](assets/previews/02-accounts-light.png) / [石墨](assets/previews/02-accounts-dark.png) | 双主题 · 1440×900 |
-| S03 模型与 Skill | [瓷白：READY / 失败、挂载执行器选择](assets/previews/03-models-light.png) / [石墨](assets/previews/03-models-dark.png) | 双主题 · 1440×900 |
+| S03 模型与 Skill | [模型 · 瓷白](assets/previews/03-models-light.png) / [石墨](assets/previews/03-models-dark.png)；[Skill · 瓷白](assets/previews/03-skills-light.png) / [石墨](assets/previews/03-skills-dark.png) | 两个独立页面，均为双主题 · 1440×900 |
 | S04 完整团队 | 上方四张主图；另有 [1280×800](assets/previews/16-team-compact-light.png) 与 [1920×1080](assets/previews/17-team-external-dark.png) 布局检查 | 双主题 · 4 个桌面视口 |
-| S05 能力管理 | [四分组、本地能力、失效授权修复](assets/previews/08-capabilities-light.png) | 瓷白 · 1440×900 |
-| S06 草稿冲突 | [M2/M3 恢复](assets/previews/09-conflict-light.png) / [石墨对照](assets/previews/10-conflict-dark.png) | 双主题 · 1440×900 |
-| S07 生命周期 | [影响与命名确认](assets/previews/11-lifecycle-light.png) / [石墨对照](assets/previews/12-lifecycle-dark.png) | 双主题 · 1440×900 |
+| S05 能力管理 | [四分组与范围](assets/previews/08-capabilities-light.png)；[Child 1 详情内可撤销的 legacy-lint 历史授权](assets/previews/08-legacy-authorization-light.png) | 瓷白 · 1440×900 |
+| S06 草稿冲突 | [团队详情内的恢复状态](assets/previews/09-conflict-light.png) / [石墨对照](assets/previews/10-conflict-dark.png)；技术写入证据仅在壳外 fixture 日志与验证记录中 | 双主题 · 1440×900 |
+| S07 生命周期 | [已打开的名称确认弹窗 · 瓷白](assets/previews/11-lifecycle-confirm-light.png) / [石墨](assets/previews/12-lifecycle-confirm-dark.png) | 双主题 · 1440×900 |
 | S08 MCP 暂停 | [瓷白：只读历史项与暂停边界](assets/previews/13-mcp-light.png) / [石墨](assets/previews/13-mcp-dark.png) | 双主题 · 1440×900 |
 | S09 生效版本 | [草稿、Active、Run 版本分离](assets/previews/14-versions-light.png) | 瓷白 · 1440×900 |
 | S10 F003 配置确认 | [明确未接线的确认示意](assets/previews/15-f003-dark.png) | 石墨 · 1440×900 |
 
-错误表单（S02/S03）、409 恢复（S06）、命名确认弹窗（S07）与 MCP 暂停（S08）均有双主题浏览器截图。弹窗属于可操作原型的交互状态；截图只展示其所属工作面，避免把一个模态框当成整项覆盖。
+错误表单（S02 与 S03 两个独立页面）、草稿恢复（S06）、**已打开的**命名确认弹窗（S07）与 MCP 暂停（S08）均有双主题浏览器截图。S06 的用户工作面只表达保留、更改与恢复选择；模拟请求版本和写入序列只留在壳外 fixture 证据中。
 
 ## 可操作范围与验证
 
 `prototype.html` 的场景选择器、主题切换、Agent 选择、Child 2 模型编辑、409 恢复、生命周期确认/取消和 F003 提示均可操作。调试控制显式标注“设计演示数据”，位于产品壳外。
 
-`render.mjs` 用一次性 loopback 静态服务器和临时 headless Chrome profile 生成图片，并写入 [verification.json](assets/verification.json)。本次作者验证结果：20 张截图、0 个浏览器页面错误，以及以下 8 项通过项：
+`render.mjs` 用一次性 loopback 静态服务器和临时 headless Chrome profile 生成图片，并写入 [verification.json](assets/verification.json)。本次作者验证结果：23 张截图、0 个浏览器页面错误，以及以下 12 项通过项：
 
 1. S01–S10 渲染时都有一个页面 h1，页面与控件没有横向溢出。
 2. S04 在 1440×900、2560×1440 的双主题主图，以及 1280×800、1920×1080 补充布局中保持非缩放的桌面文字与控件尺寸。
 3. F005 AppShell 有图标导航、最近查看、帮助与账号脚；调试控制在产品壳外；Workspace 二级导航与“草稿已保存”在壳内可见，每张 Agent 卡的 Skill 数量均与其勾选授权一致。
-4. 切主题与刷新都保留选中的 Child，且主题动作的模拟业务写入为零。
-5. 修改 Child 2 只产生一次 fixture 草稿写入；Main 和另一 Workspace 的 sentinel 不变。
-6. M2 409 → M3 本地编辑 → 重试依次得到 `M2(409)`、`M2(200)`、`M3(200)`；冲突中没有额外 PUT，也没有 activation 请求。
-7. 取消生命周期确认会关闭具名弹窗、把焦点返还原操作行，并产生零 fixture 业务写入。
-8. 原生 button/input/select/dialog 可获得键盘焦点；Escape 能关闭影响确认弹窗而不形成焦点陷阱。
+4. 账号、模型、Skill 与 MCP 共用壳内全局二级导航；模型和 Skill 是可独立抵达的产品页。
+5. S01 保持在 Agent 团队配置面，呈现 Main 与 Child 1 的真实空占位、零隐式模型/Skill 与不可用的 Apply。
+6. 正常 S04 的所有 Agent 都为就绪且 Apply 可用；legacy-lint 仅在独立的 Child 1 可撤销失效授权状态中显示。
+7. 切主题与刷新都保留选中的 Child，且主题动作的模拟业务写入为零。
+8. 修改 Child 2 只产生一次 fixture 草稿写入；Main 和另一 Workspace 的 sentinel 不变。
+9. M2 409 → M3 本地编辑 → 重试依次得到 `M2(409)`、`M2(200)`、`M3(200)`；冲突中没有额外 PUT，也没有 activation 请求，且产品壳内不显示这些技术标签或模拟事件日志。
+10. 生效版本面为只读，没有 Apply；Child 2 的生效基线和模型/Skill 草稿差异相互对应，并提供返回团队编辑入口。
+11. 取消生命周期确认会关闭具名弹窗、把焦点返还原操作行，并产生零 fixture 业务写入。
+12. 原生 button/input/select/dialog 可获得键盘焦点；Escape 能关闭影响确认弹窗而不形成焦点陷阱。
 
 复现（替换为本机 Chrome 绝对路径）：
 
@@ -82,7 +86,7 @@ node assets/render.mjs /absolute/path/to/Google\ Chrome
 (cd assets && shasum -a 256 -c SHA256SUMS)
 ```
 
-[SHA256SUMS](assets/SHA256SUMS) 绑定 `prototype.html` 与本次 20 张原型截图；before 图单独标识为当前 main 的隔离宿主证据，不与原型效果图混作同一渲染源。
+[SHA256SUMS](assets/SHA256SUMS) 绑定 `prototype.html` 与本次 23 张原型截图；before 图单独标识为当前 main 的隔离宿主证据，不与原型效果图混作同一渲染源。
 
 ## 明确限制
 
